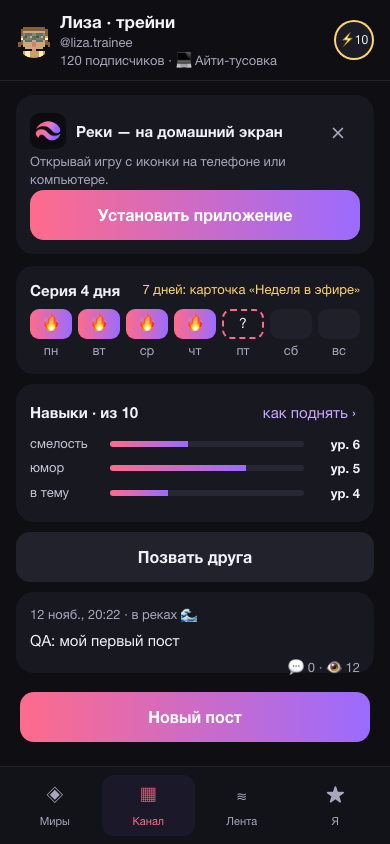
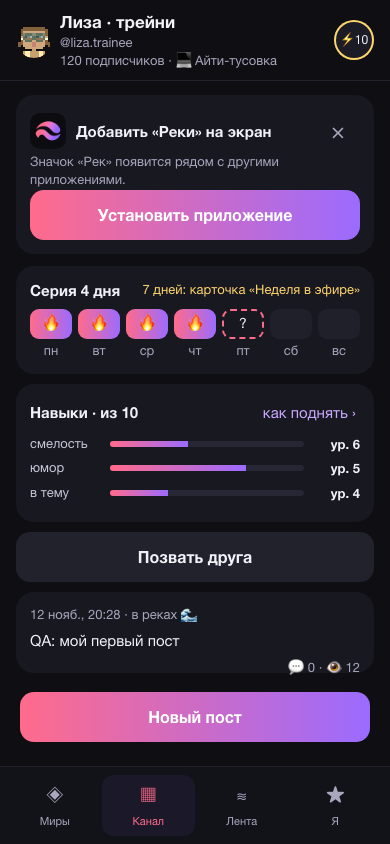
fix(frontend): shorten device-specific install instructions #291

Changed region(s): [[0.0615, 0.1232, 0.7385, 0.2156], [0.2769, 0.7085, 0.3077, 0.7393]]

diff --git a/frontend/src/app/install/InstallApp.tsx b/frontend/src/app/install/InstallApp.tsx
@@ -10,6 +10,7 @@ export function InstallApp({entry,playerId}:{entry:'settings'|'banner';playerId?
  const dialog=useRef<HTMLDivElement>(null),heading=useRef<HTMLHeadingElement>(null),titleId=useId()
  const ios=/iPad|iPhone|iPod/.test(navigator.userAgent)||(navigator.platform==='MacIntel'&&navigator.maxTouchPoints>1)
  const android=/Android/.test(navigator.userAgent)
+ const safari=/Safari/.test(navigator.userAgent)&&!/(Chrome|Chromium|CriOS|Edg|OPR)/.test(navigator.userAgent)
  const embedded=inTelegram||/FBAN|FBAV|Instagram|\bVK\b|; wv\)|Telegram/i.test(navigator.userAgent)
  const close=()=>{if(busy)return;setOpen(false);if(entry==='banner')dismissInstall()}
  useEffect(()=>{
@@ -43,11 +44,10 @@ export function InstallApp({entry,playerId}:{entry:'settings'|'banner';playerId?
  if(install.installed)return null
  if(entry==='banner'&&(!publishedPostFor(playerId)||install.dismissed)&&!open)return null
  return <>
-  {entry==='settings'?<button type="button" className="install-settings" onClick={()=>void start()} disabled={busy}><span>Установить приложение</span><span aria-hidden="true">›</span></button>:<Card style={{marginBottom:12}}><div className="install-banner-heading"><img src="/android-chrome-192x192.png?v=wave-2" width={36} height={36} alt=""/><strong>Реки — на домашний экран</strong><button type="button" aria-label="Закрыть предложение установки" onClick={dismissInstall} disabled={busy}>×</button></div><p className="small muted">Открывай игру с иконки на телефоне или компьютере.</p><Button disabled={busy} onClick={()=>void start()}>{busy?'Открываем установку…':'Установить приложение'}</Button></Card>}
+  {entry==='settings'?<button type="button" className="install-settings" onClick={()=>void start()} disabled={busy}><span>Установить приложение</span><span aria-hidden="true">›</span></button>:<Card style={{marginBottom:12}}><div className="install-banner-heading"><img src="/android-chrome-192x192.png?v=wave-2" width={36} height={36} alt=""/><strong>Добавить «Реки» на экран</strong><button type="button" aria-label="Закрыть предложение установки" onClick={dismissInstall} disabled={busy}>×</button></div><p className="small muted">Значок «Рек» появится рядом с другими приложениями.</p><Button disabled={busy} onClick={()=>void start()}>{busy?'Открываем установку…':'Установить приложение'}</Button></Card>}
   {open&&<Sheet onClose={close}><div ref={dialog} role="dialog" aria-modal="true" aria-labelledby={titleId} className="install-dialog">
-   <h2 ref={heading} id={titleId} tabIndex={-1}>Установить Реки</h2>
-   {embedded?<><p>Во встроенном браузере установка может быть недоступна.</p><p>Открой меню этой страницы и выбери «Открыть в браузере». {ios?'На iPhone и iPad используй Safari.':'На Android используй Chrome.'}</p></>:null}
-   {ios?<><p>{embedded?'В Safari:':'Открой эту страницу в Safari, затем:'}</p><ol><li>Нажми «Поделиться».</li><li>Выбери «На экран “Домой”».</li><li>Нажми «Добавить» и открой Реки с новой иконки.</li></ol></>:android?<><p>В Chrome открой меню ⋮ и выбери «Установить приложение» или «Добавить на главный экран».</p><p className="small muted">Если такого пункта нет, этот браузер сейчас не предлагает установку. Попробуй открыть страницу в актуальном Chrome.</p></>:<><p>Открой меню Chrome или Edge и найди пункт установки приложения. В Safari на Mac — «Файл» → «Добавить в Dock», если этот пункт доступен.</p><p className="small muted">Наличие пункта зависит от браузера. Отсутствие кнопки установки не означает, что приложение уже установлено.</p></>}
+   <h2 ref={heading} id={titleId} tabIndex={-1}>Установить «Реки»</h2>
+   {embedded?<><p>Открой игру {ios?'в Safari':android?'в Chrome':'в обычном браузере'}.</p>{(ios||android)&&<p>Нажми ⋯ вверху окна и выбери «Открыть в браузере».</p>}<p className="small muted">{ios||android?'Нет такого пункта? Скопируй адрес ниже и вставь его в браузер.':'Скопируй адрес ниже и вставь его в Chrome, Edge или Safari.'}</p></>:ios?<ol><li>В Safari нажми «Поделиться».</li><li>Выбери «На экран “Домой”».</li><li>Нажми «Добавить».</li></ol>:android?<ol><li>В Chrome нажми ⋮.</li><li>Выбери «Установить приложение» или «Добавить на главный экран».</li></ol>:safari?<p>В меню Safari выбери «Файл» → «Добавить в Dock».</p>:<p>В меню браузера выбери «Установить приложение». В Edge этот пункт находится в разделе «Приложения».</p>}
    {install.prompt&&!embedded&&<Button disabled={busy} onClick={()=>void start()}>{busy?'Открываем установку…':'Открыть установку браузера'}</Button>}
    {embedded&&<><label className="small muted" htmlFor={`${titleId}-url`}>Адрес игры</label><input id={`${titleId}-url`} className="install-address" readOnly value={`${location.origin}/`} onFocus={e=>e.target.select()}/>{navigator.clipboard&&<Button secondary onClick={()=>void navigator.clipboard.writeText(`${location.origin}/`).then(()=>setMessage('Адрес скопирован')).catch(()=>setMessage('Выдели и скопируй адрес из поля выше.'))}>Скопировать адрес</Button>}</>}
    {message&&<p role="status" className="small">{message}</p>}
